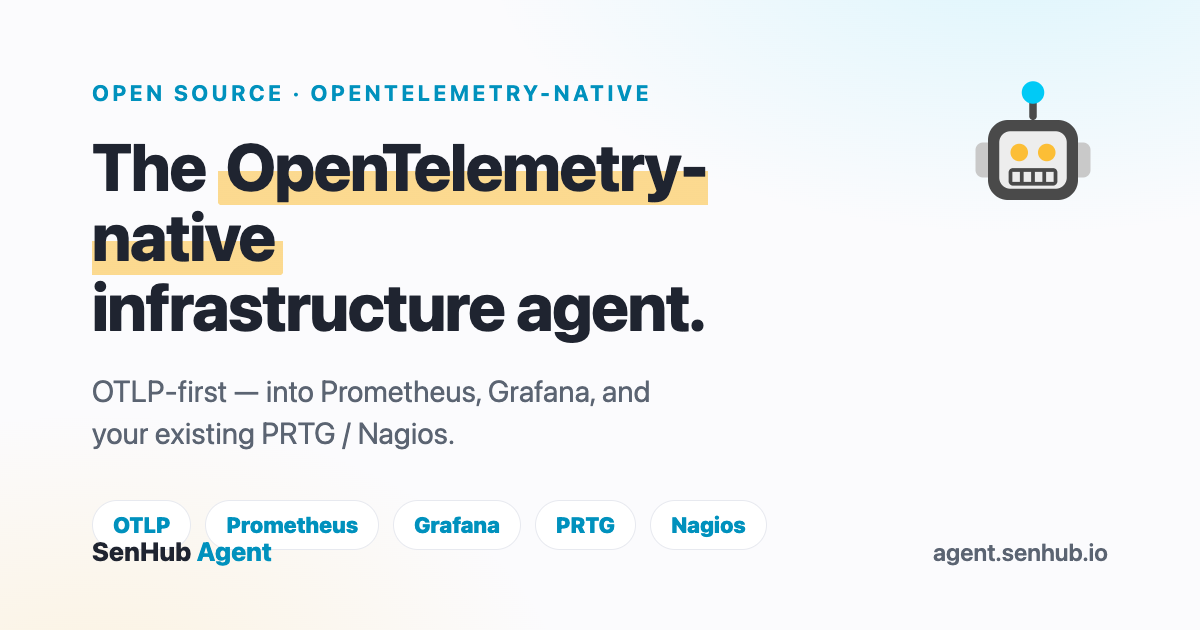
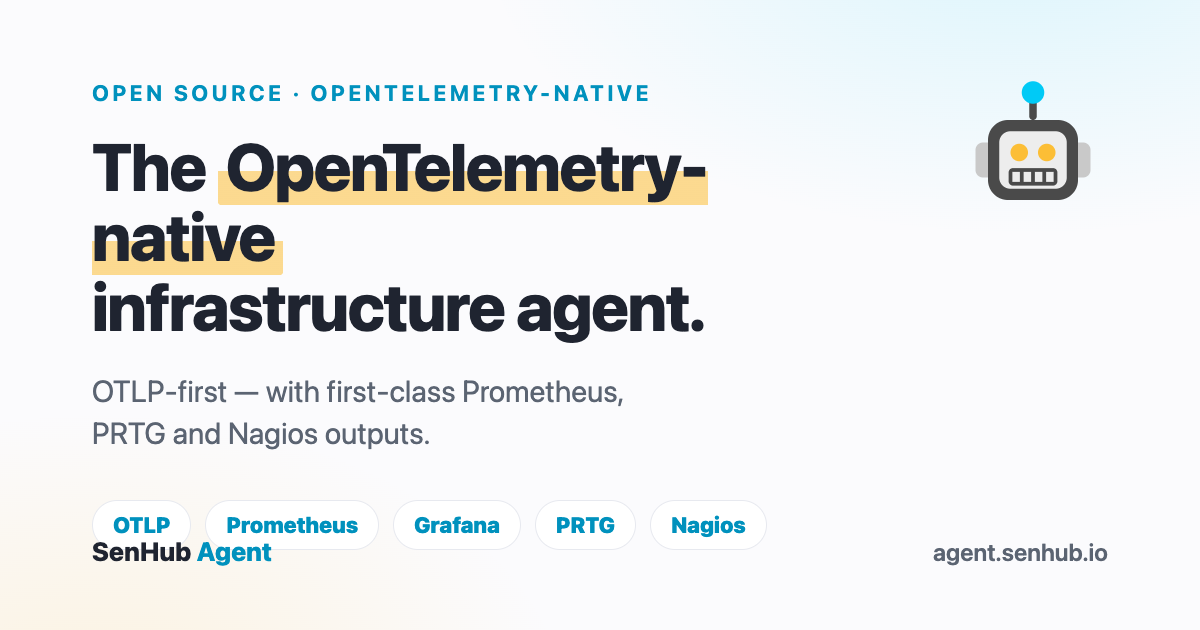
content: frame PRTG/Nagios as first-class, not a transition phase
Keep the OpenTelemetry lead but stop implying PRTG/Nagios are legacy
on their way out — that risks alarming paying PRTG customers. Drop the
"while you transition / migrate / on-ramp / through the move" language
everywhere, restore PRTG/Nagios to equal weight in the fan-out, and
state plainly that every output (OTLP, Prometheus, PRTG, Nagios) is
first-class and fully supported. Meta tags and OG image updated to
match; the replace-PRTG strategy stays internal, never on the site.

Changed region(s): [[0.0617, 0.6032, 0.555, 0.7238]]

diff --git a/index.html b/index.html
@@ -7,7 +7,7 @@
     <title>SenHub Agent — The OpenTelemetry-native infrastructure agent</title>
     <meta
       name="description"
-      content="SenHub Agent is an open-core, OpenTelemetry-native infrastructure monitoring agent: a single lightweight Go binary that emits OTLP into your modern stack (Prometheus, VictoriaMetrics, Grafana) — and still feeds PRTG or Nagios during the transition."
+      content="SenHub Agent is an open-core, OpenTelemetry-native infrastructure monitoring agent: a single lightweight Go binary that emits OTLP into your stack (Prometheus, VictoriaMetrics, Grafana), with first-class native PRTG and Nagios outputs."
     />
     <link rel="icon" href="/favicon.svg" type="image/svg+xml" />
     <link rel="canonical" href="https://agent.senhub.io/" />
@@ -16,19 +16,19 @@
     <meta property="og:title" content="SenHub Agent — The OpenTelemetry-native infrastructure agent" />
     <meta
       property="og:description"
-      content="A single, lightweight Go binary that emits your host and infrastructure metrics as OpenTelemetry — OTLP into Prometheus, VictoriaMetrics or Grafana, with PRTG and Nagios still supported. Open-core."
+      content="A single, lightweight Go binary that emits your host and infrastructure metrics as OpenTelemetry — OTLP into Prometheus, VictoriaMetrics or Grafana, with first-class native PRTG and Nagios outputs. Open-core."
     />
     <meta property="og:type" content="website" />
     <meta property="og:site_name" content="SenHub Agent" />
     <meta property="og:locale" content="en_US" />
     <meta property="og:url" content="https://agent.senhub.io" />
-    <meta property="og:image" content="https://agent.senhub.io/assets/og-image.png?v=3" />
+    <meta property="og:image" content="https://agent.senhub.io/assets/og-image.png?v=4" />
     <meta property="og:image:type" content="image/png" />
     <meta property="og:image:width" content="1200" />
     <meta property="og:image:height" content="630" />
     <meta
       property="og:image:alt"
-      content="SenHub Agent — the OpenTelemetry-native infrastructure agent. A single lightweight Go binary emitting OTLP into Prometheus, Grafana and your existing PRTG / Nagios tooling."
+      content="SenHub Agent — the OpenTelemetry-native infrastructure agent. A single lightweight Go binary emitting OTLP into Prometheus and Grafana, with first-class native PRTG and Nagios outputs."
     />
 
     <!-- Twitter card -->
@@ -36,9 +36,9 @@
     <meta name="twitter:title" content="SenHub Agent — The OpenTelemetry-native infrastructure agent" />
     <meta
       name="twitter:description"
-      content="A single, lightweight Go binary that emits your host and infrastructure metrics as OpenTelemetry — OTLP into Prometheus, VictoriaMetrics or Grafana, with PRTG and Nagios still supported. Open-core."
+      content="A single, lightweight Go binary that emits your host and infrastructure metrics as OpenTelemetry — OTLP into Prometheus, VictoriaMetrics or Grafana, with first-class native PRTG and Nagios outputs. Open-core."
     />
-    <meta name="twitter:image" content="https://agent.senhub.io/assets/og-image.png?v=3" />
+    <meta name="twitter:image" content="https://agent.senhub.io/assets/og-image.png?v=4" />
 
     <style>
       /* ---- Palette: SenHub brand (senhub.io) — amber fill, cyan accent ---- */
@@ -635,7 +635,7 @@
         "name": "SenHub Agent",
         "applicationCategory": "DeveloperApplication",
         "operatingSystem": "Linux, Windows, macOS",
-        "description": "Open-core, OpenTelemetry-native infrastructure monitoring agent: a single lightweight Go binary that emits host and infrastructure metrics as OTLP into Prometheus, VictoriaMetrics or Grafana, and still feeds PRTG or Nagios.",
+        "description": "Open-core, OpenTelemetry-native infrastructure monitoring agent: a single lightweight Go binary that emits host and infrastructure metrics as OTLP into Prometheus, VictoriaMetrics or Grafana, with first-class native PRTG and Nagios outputs.",
         "url": "https://agent.senhub.io/",
         "codeRepository": "https://github.com/senhub-io/senhub-agent",
         "programmingLanguage": "Go",
@@ -670,8 +670,8 @@
           <h1>The <span class="hl">OpenTelemetry-native</span><br />infrastructure agent.</h1>
           <p class="subtagline">
             Collect host and infrastructure metrics as OpenTelemetry — push
-            via OTLP to Prometheus, VictoriaMetrics or Grafana. Still on PRTG
-            or Nagios? It feeds those too.
+            via OTLP to Prometheus, VictoriaMetrics or Grafana, or serve PRTG
+            and Nagios natively. Your stack, your choice.
           </p>
           <div class="buttons">
             <a class="btn btn-primary" href="https://docs.senhub.io">Get started</a>
@@ -708,15 +708,15 @@
               <div class="sinks">
                 <span class="sink"><b>OTLP</b></span>
                 <span class="sink"><b>Prometheus</b></span>
-                <span class="sink">PRTG</span>
-                <span class="sink">Nagios</span>
+                <span class="sink"><b>PRTG</b></span>
+                <span class="sink"><b>Nagios</b></span>
               </div>
             </div>
           </div>
           <p class="demo-caption">
-            One OpenTelemetry pipeline. Push OTLP or scrape Prometheus into
-            your modern stack — and keep feeding PRTG or Nagios while you
-            transition. No per-tool agents to deploy.
+            One OpenTelemetry pipeline, every output. Push OTLP, scrape
+            Prometheus, or serve PRTG and Nagios — all first-class, all from the
+            same agent. No per-tool agents to deploy.
           </p>
         </section>
 
@@ -728,9 +728,10 @@
             Observability has standardized on OpenTelemetry — everywhere except
             the infrastructure edge, where each tool still ships its own agent.
             SenHub Agent closes that gap: a single OTel-native collector for
-            hosts, databases and infrastructure. Emit OTLP into your modern
-            stack today, and keep feeding PRTG or Nagios while you transition —
-            one agent, no rip-and-replace.
+            hosts, databases and infrastructure. Emit OTLP into a modern stack,
+            or serve PRTG, Nagios and Prometheus natively — every output is
+            first-class and fully supported. Adopt OpenTelemetry at your own
+            pace, without leaving the tools you rely on.
           </p>
         </section>
 
@@ -750,9 +751,9 @@
             <div>
               <h3>Plugs into what you run</h3>
               <p>
-                OTLP and Prometheus feed your modern stack — VictoriaMetrics,
-                Grafana, any OTel backend. Still on PRTG or Nagios? The same
-                agent serves them too, so you migrate at your own pace.
+                OTLP and Prometheus feed a modern stack — VictoriaMetrics,
+                Grafana, any OTel backend. PRTG, Nagios and Prometheus are
+                first-class outputs too — natively supported, your choice.
               </p>
             </div>
             <div>
@@ -938,8 +939,8 @@
           </div>
           <p class="section-note">
             OTLP and Prometheus drop straight into any OpenTelemetry backend —
-            VictoriaMetrics, Grafana, and the rest. PRTG and Nagios keep your
-            current tooling working through the move.
+            VictoriaMetrics, Grafana, and the rest. PRTG and Nagios are
+            first-class, fully-supported outputs — use whichever fits your team.
           </p>
         </section>
 

diff --git a/assets/og-image.html b/assets/og-image.html
@@ -98,7 +98,7 @@
 
     <div class="eyebrow">Open source · OpenTelemetry-native</div>
     <h1>The <span class="hl">OpenTelemetry-native</span><br />infrastructure agent.</h1>
-    <p>OTLP-first — into Prometheus, Grafana, and your existing PRTG / Nagios.</p>
+    <p>OTLP-first — with first-class Prometheus, PRTG and Nagios outputs.</p>
     <div class="sinks">
       <span class="chip"><b>OTLP</b></span>
       <span class="chip"><b>Prometheus</b></span>
